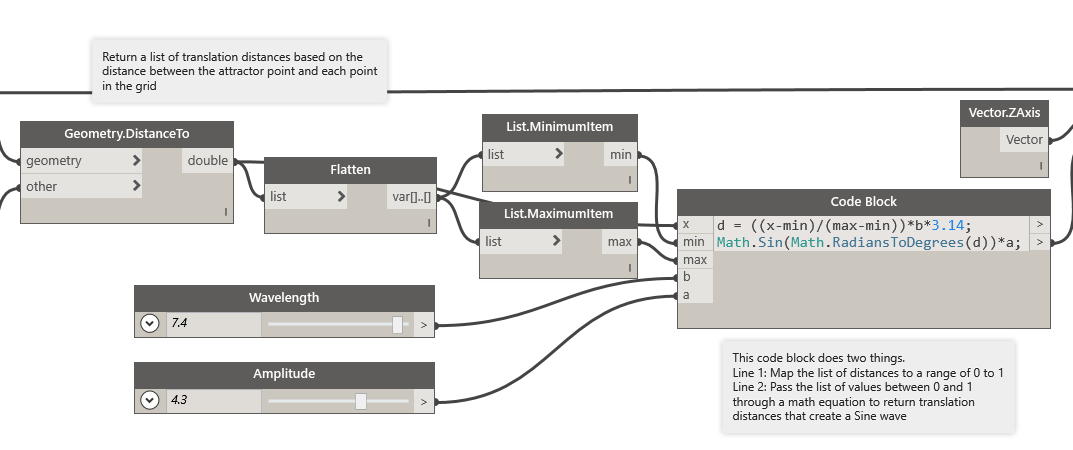
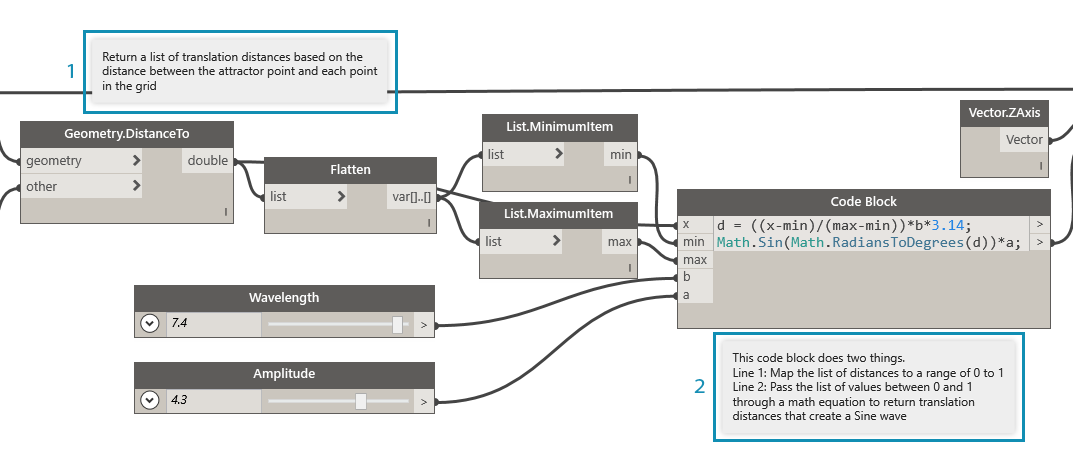
Updates 12_Best-Practice/images/12-2/notes.png
Auto commit by GitBook Editor

diff --git a/12_Best-Practice/12-2_Graph-Strategies.md b/12_Best-Practice/12-2_Graph-Strategies.md
@@ -15,6 +15,10 @@ As you develop your Dynamo program and test ideas, it can quickly grow in size a
 
 ![groups](images/12-2/groups.png)
 
+> 1. Function group (blue)
+> 2. Input group (orange)
+> 3. Script group (green)
+
 > For how to use Groups, refer to [Managing Your Program](http://dynamoprimer.com/en/03_Anatomy-of-a-Dynamo-Definition/3-4_best_practices.html).
 
 **Develop efficiently with Code Block:**
@@ -26,6 +30,9 @@ As you develop your Dynamo program and test ideas, it can quickly grow in size a
 ![codeblock](images/12-2/codeblock.png)
 
 > It was much faster to write a few lines of code than it was to search for and add each node individually. The code block is also far more concise.
+
+> 1. Design Script written in Code Block
+> 2. Equivalent program in nodes
 
 > For how to use Code Block, refer to [What's a Code Block](http://dynamoprimer.com/en/07_Code-Block/7-1_what-is-a-code-block.html).
 
@@ -56,6 +63,9 @@ As you develop your Dynamo program and test ideas, it can quickly grow in size a
 
 > We can verify how many True values BoundingBox.Contains is returning and in which lists by activating List@Level for CountTrue's "list" input. List@Level allows the user to determine at which level the input will take data from. Using List@Level is flexible, efficient, and highly encouraged over other methods involving List.Map and List.Combine.
 
+> 1. Counting true values at List Level 2
+> 2. Counting true values at List Level 3
+
 > For how to use List@Level, refer to [Lists of Lists](http://dynamoprimer.com/en/06_Designing-with-Lists/6-3_lists-of-lists.html#list@level).
 
 ### Maintain Readability
@@ -71,6 +81,9 @@ In addition to making your program as simple and efficient as possible, strive f
 
 ![alignment](images/12-2/alignment.png)
 
+> 1. Unorganized graph
+> 2. Aligned graph
+
 > For how to use Node Alignment, refer to [Managing Your Program](http://dynamoprimer.com/en/03_Anatomy-of-a-Dynamo-Definition/3-4_best_practices.html).
 
 **Descriptive labeling by renaming:**
@@ -80,6 +93,10 @@ In addition to making your program as simple and efficient as possible, strive f
 
 ![inputs](images/12-2/inputs.png)
 
+> 1. Inputs for surface manipulation
+> 2. Inputs for architectural parameters
+> 3. Inputs for drainage simulation script
+
 > To rename a node, right click on its name and choose "Rename Node...".
 
 **Explain with Notes:**
@@ -88,6 +105,9 @@ In addition to making your program as simple and efficient as possible, strive f
 * If a node group is large and can’t be easily understood right away
 
 ![notes](images/12-2/notes.png)
+
+> 1. A Note describing the portion of the program that returns raw translation distances
+> 2. A Note describing the code that maps those values to a Sine wave
 
 > For how to add a Note, refer to [Managing Your Program](http://dynamoprimer.com/en/03_Anatomy-of-a-Dynamo-Definition/3-4_best_practices.html).
 
@@ -99,7 +119,10 @@ In addition to making your program as simple and efficient as possible, strive f
 
 ![watch](images/12-2/watch.png)
 
-> The Watch nodes are being used to compare the raw translation distances with the values passed through the Sine equation.
+> The Watch nodes are being used to compare:
+
+> 1. The raw translation distances
+> 2. The values passed through the Sine equation
 
 > For how to use Watch, refer to [Library](http://dynamoprimer.com/en/03_Anatomy-of-a-Dynamo-Definition/3-2_dynamo_libraries.html).
 
@@ -187,7 +210,7 @@ With Groups established, align the nodes to create visual continuity across the 
 
 > Visual continuity helps the user to see the program flow and implicit relationships between nodes.
 
-Make the program more accessible by adding another layer of graphic improvements. Add notes to describe how specific areas of the program works, give inputs custom names, and assign colors to different types of groups. 
+Make the program more accessible by adding another layer of graphic improvements. Add notes to describe how a specific area of the program works, give inputs custom names, and assign colors to different types of groups. 
 
 ![notes-rename](images/12-2/2-2.jpg)
 
@@ -213,14 +236,14 @@ Let's simplify the graph now that everything is in place.
 
 > Condensing our program with Node to Code and Custom Node has greatly reduced the size of the graph. The groups that create the roof surface and walls have been converted to code since they are very specific to this program. The point translation group is contained in a Custom Node as it could be used in another program. In the example file, create your own custom node from the translate points group.
 
-> 1. Custom Node
-> 2. Node to Code
+> 1. Custom Node to contain the "translate point grid" group
+> 2. Node to Code to condense the "create architectural roof surface and curtain wall" groups
 
 As a final step, create presets for exemplary roof forms.
 
 ![presets](images/12-2/3-3.jpg)
 
-> These inputs are the primary drivers of the roof form. Presets will help users see the potential of the program. They are numbered according to their respective presets.
+> These inputs are the primary drivers of the roof form and will help users see the potential of the program.
 
 Our program with views of two presets.
 
